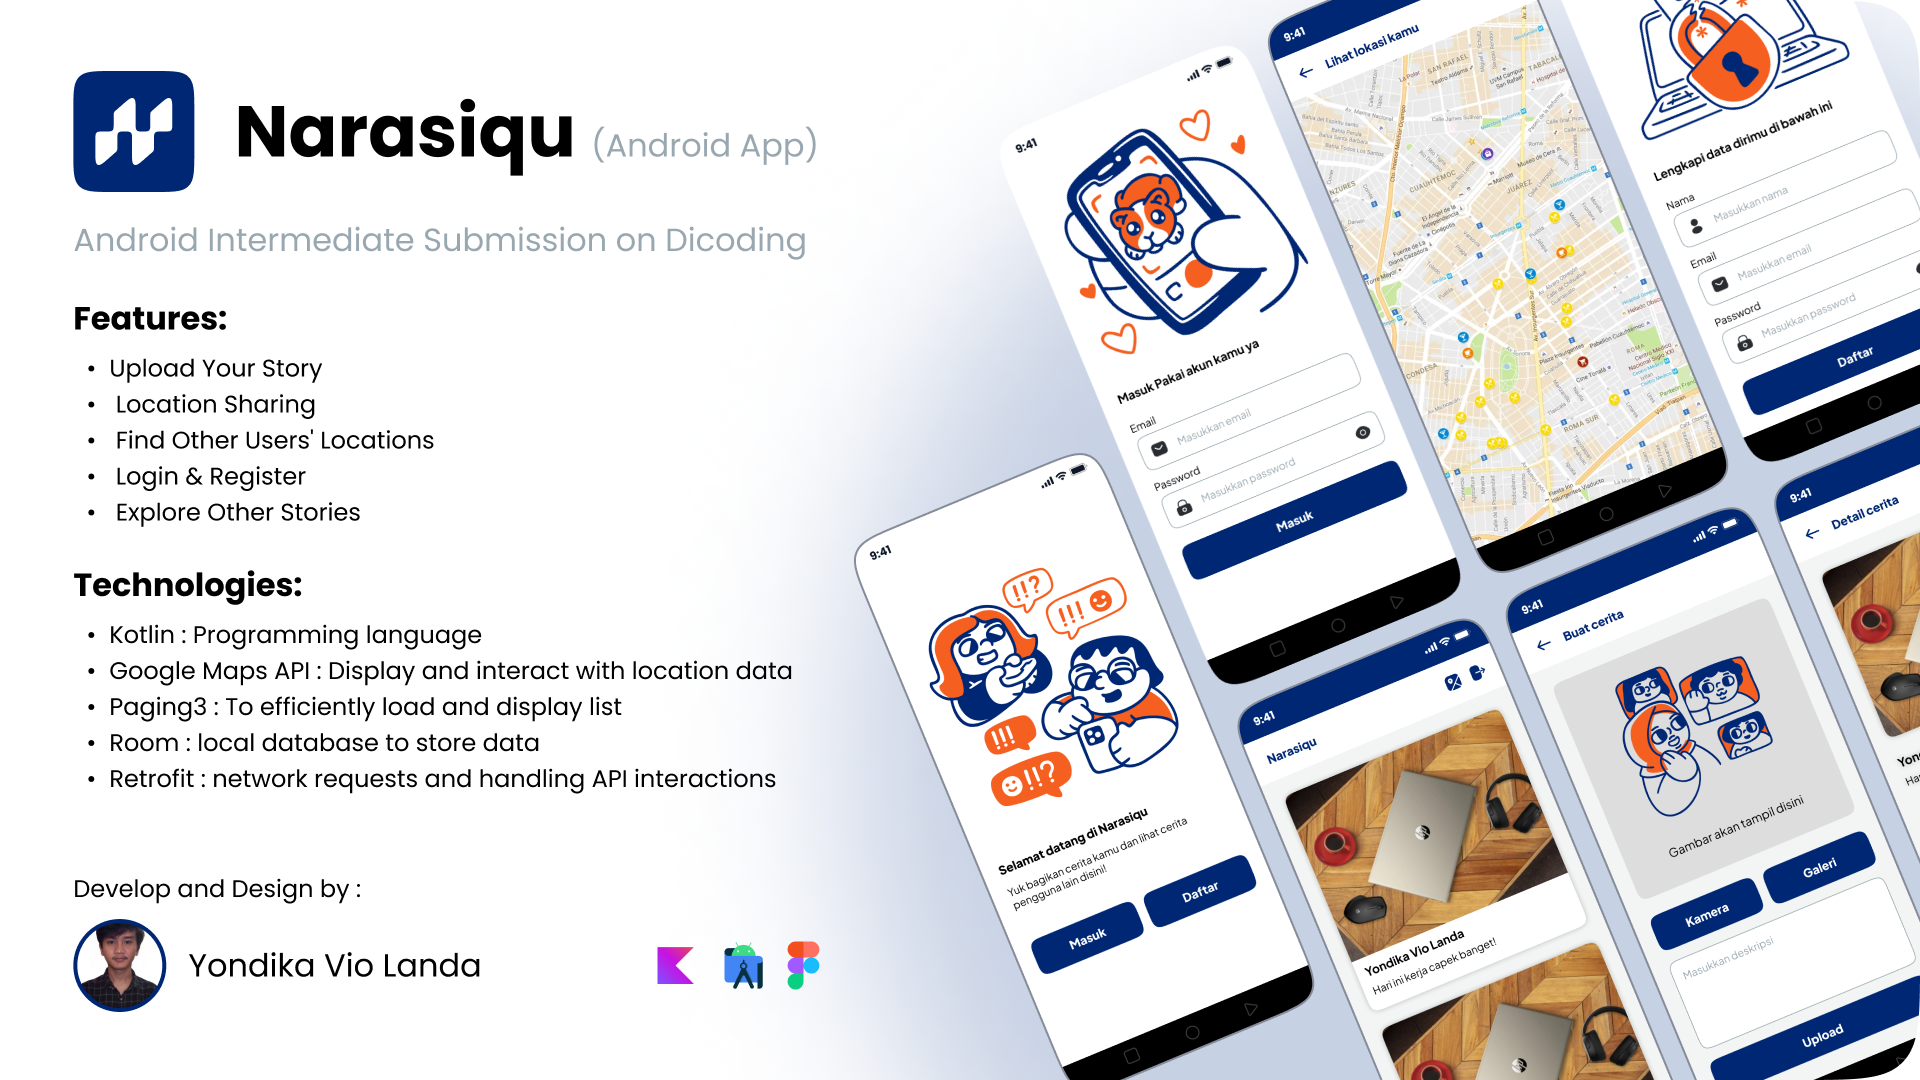
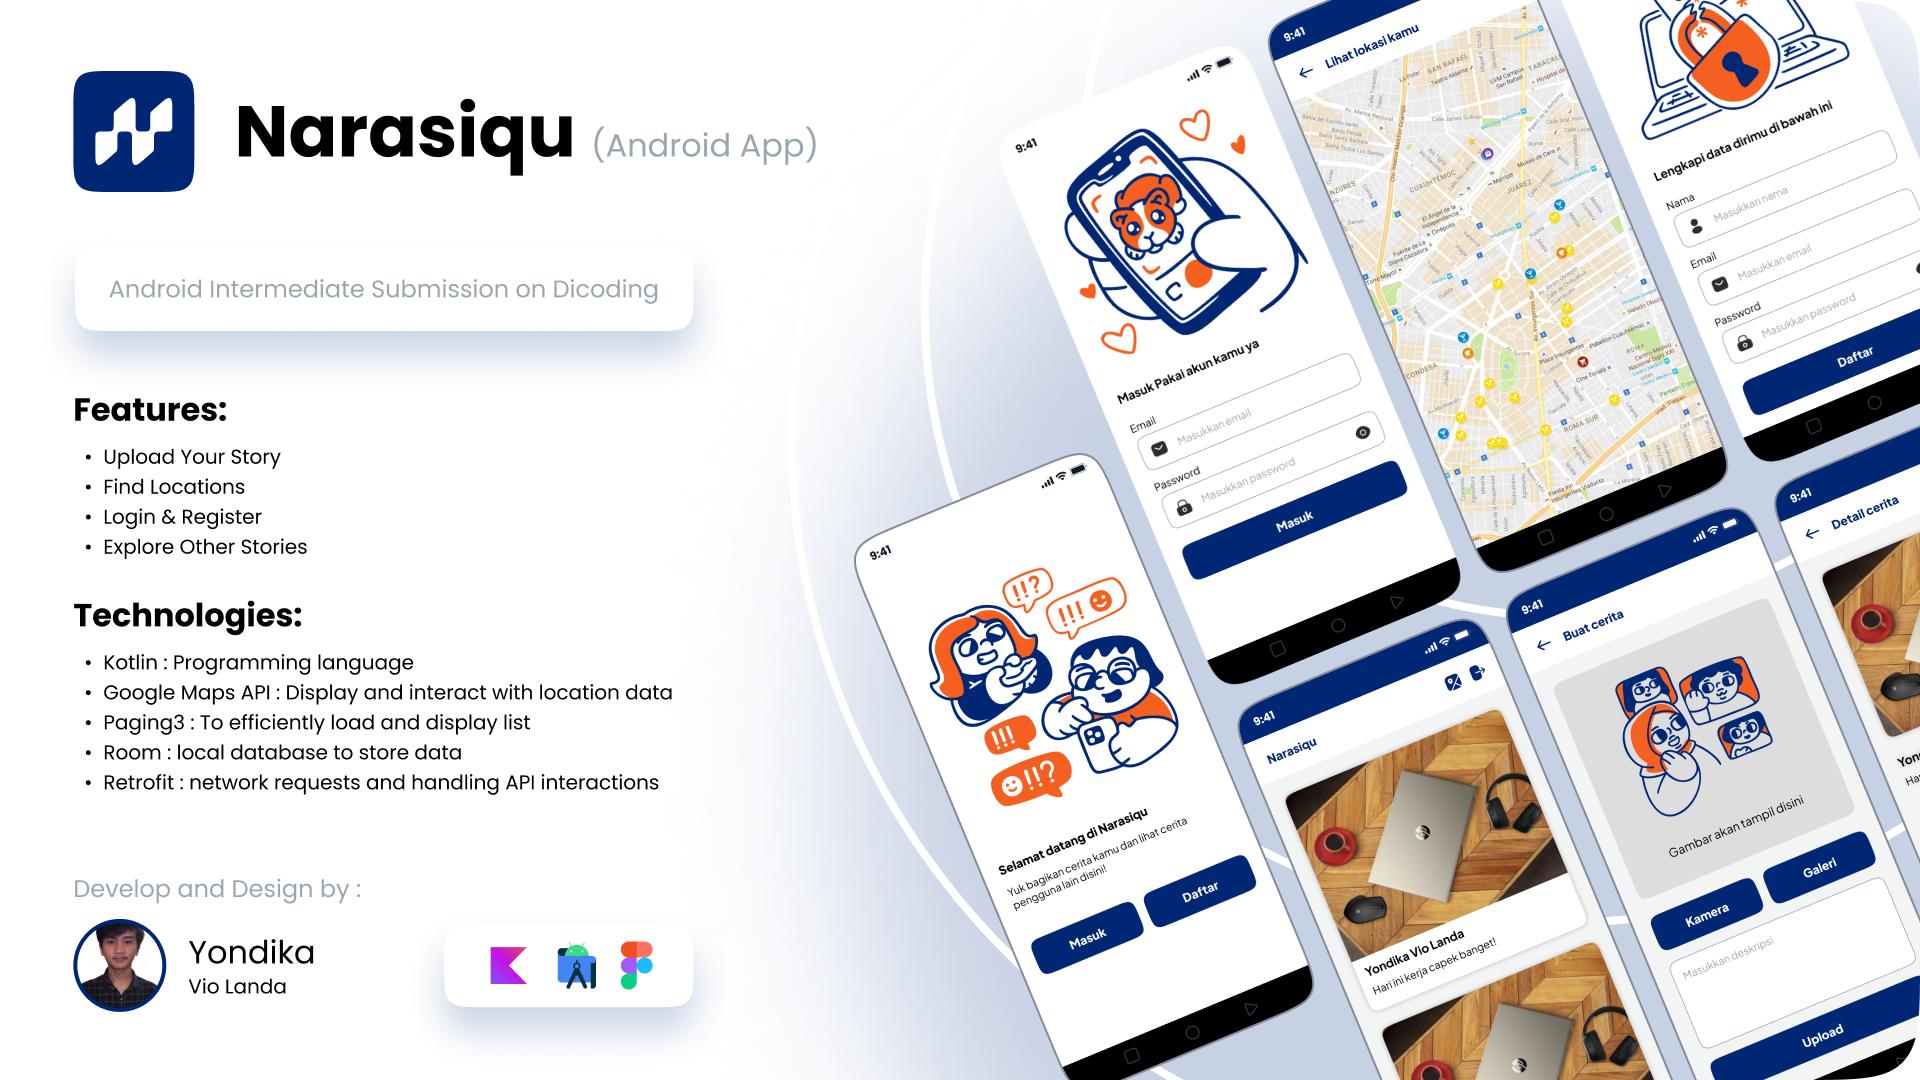
fix: preview

diff --git a/README.md b/README.md
@@ -13,7 +13,7 @@ Narasiqu is an Android application designed to help you share your stories with 
 - [ ] Upload Your Story
 - [ ] Login & Register
 - [ ] Explore Other Stories
-- [ ] Location Sharing
+- [ ] Find Locations
 
 ## Technologies Used
 
